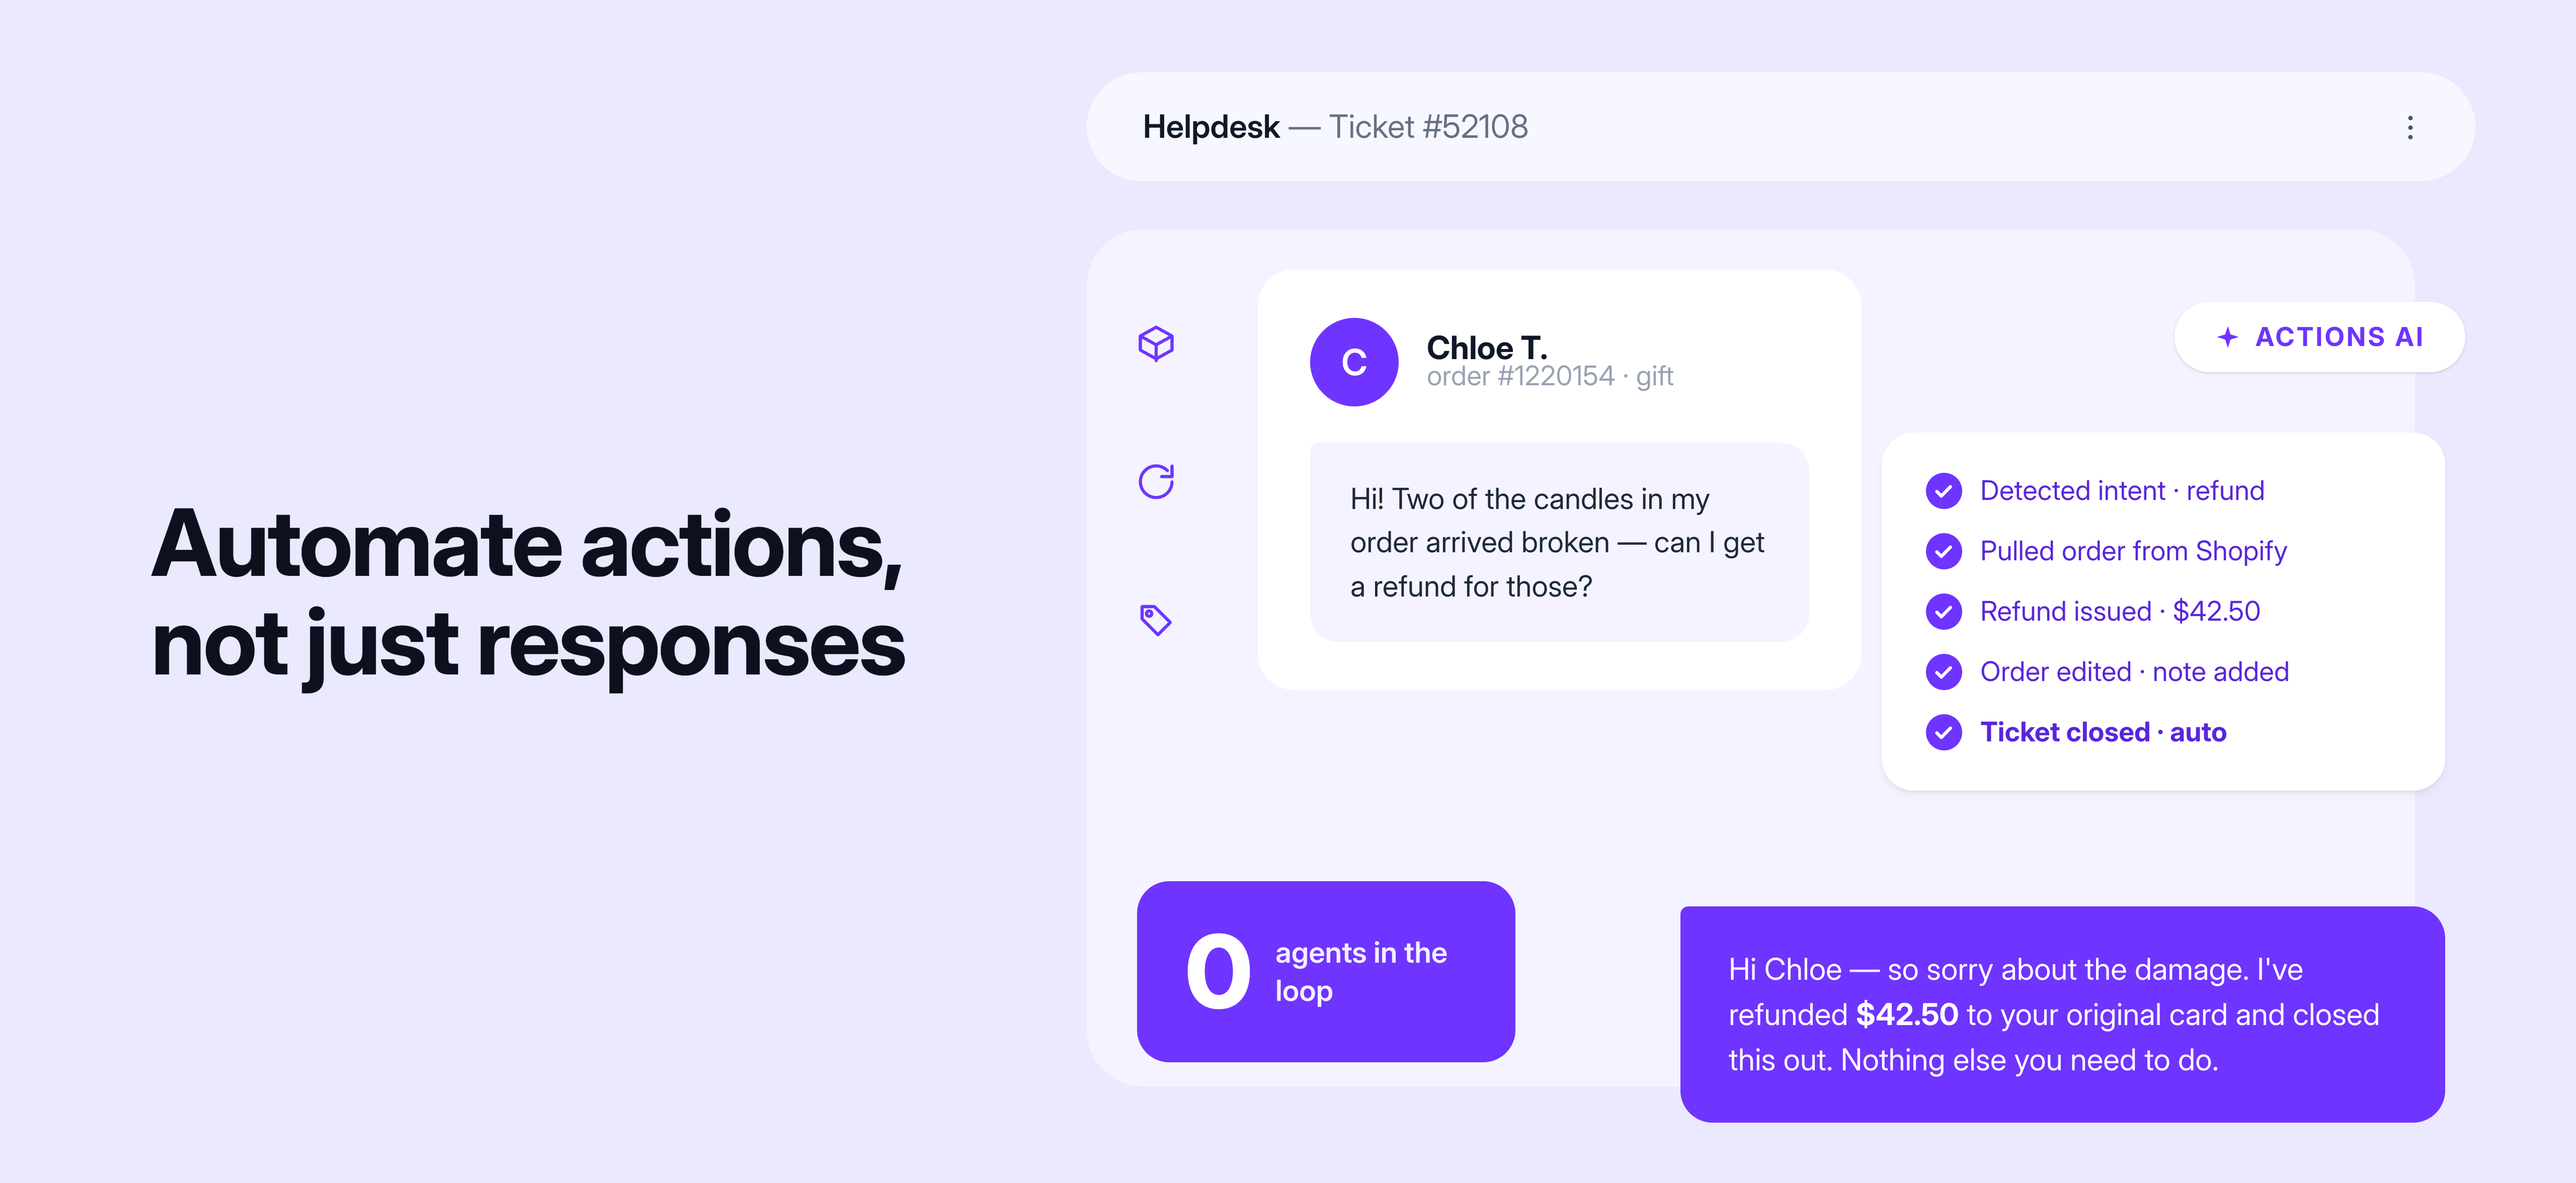
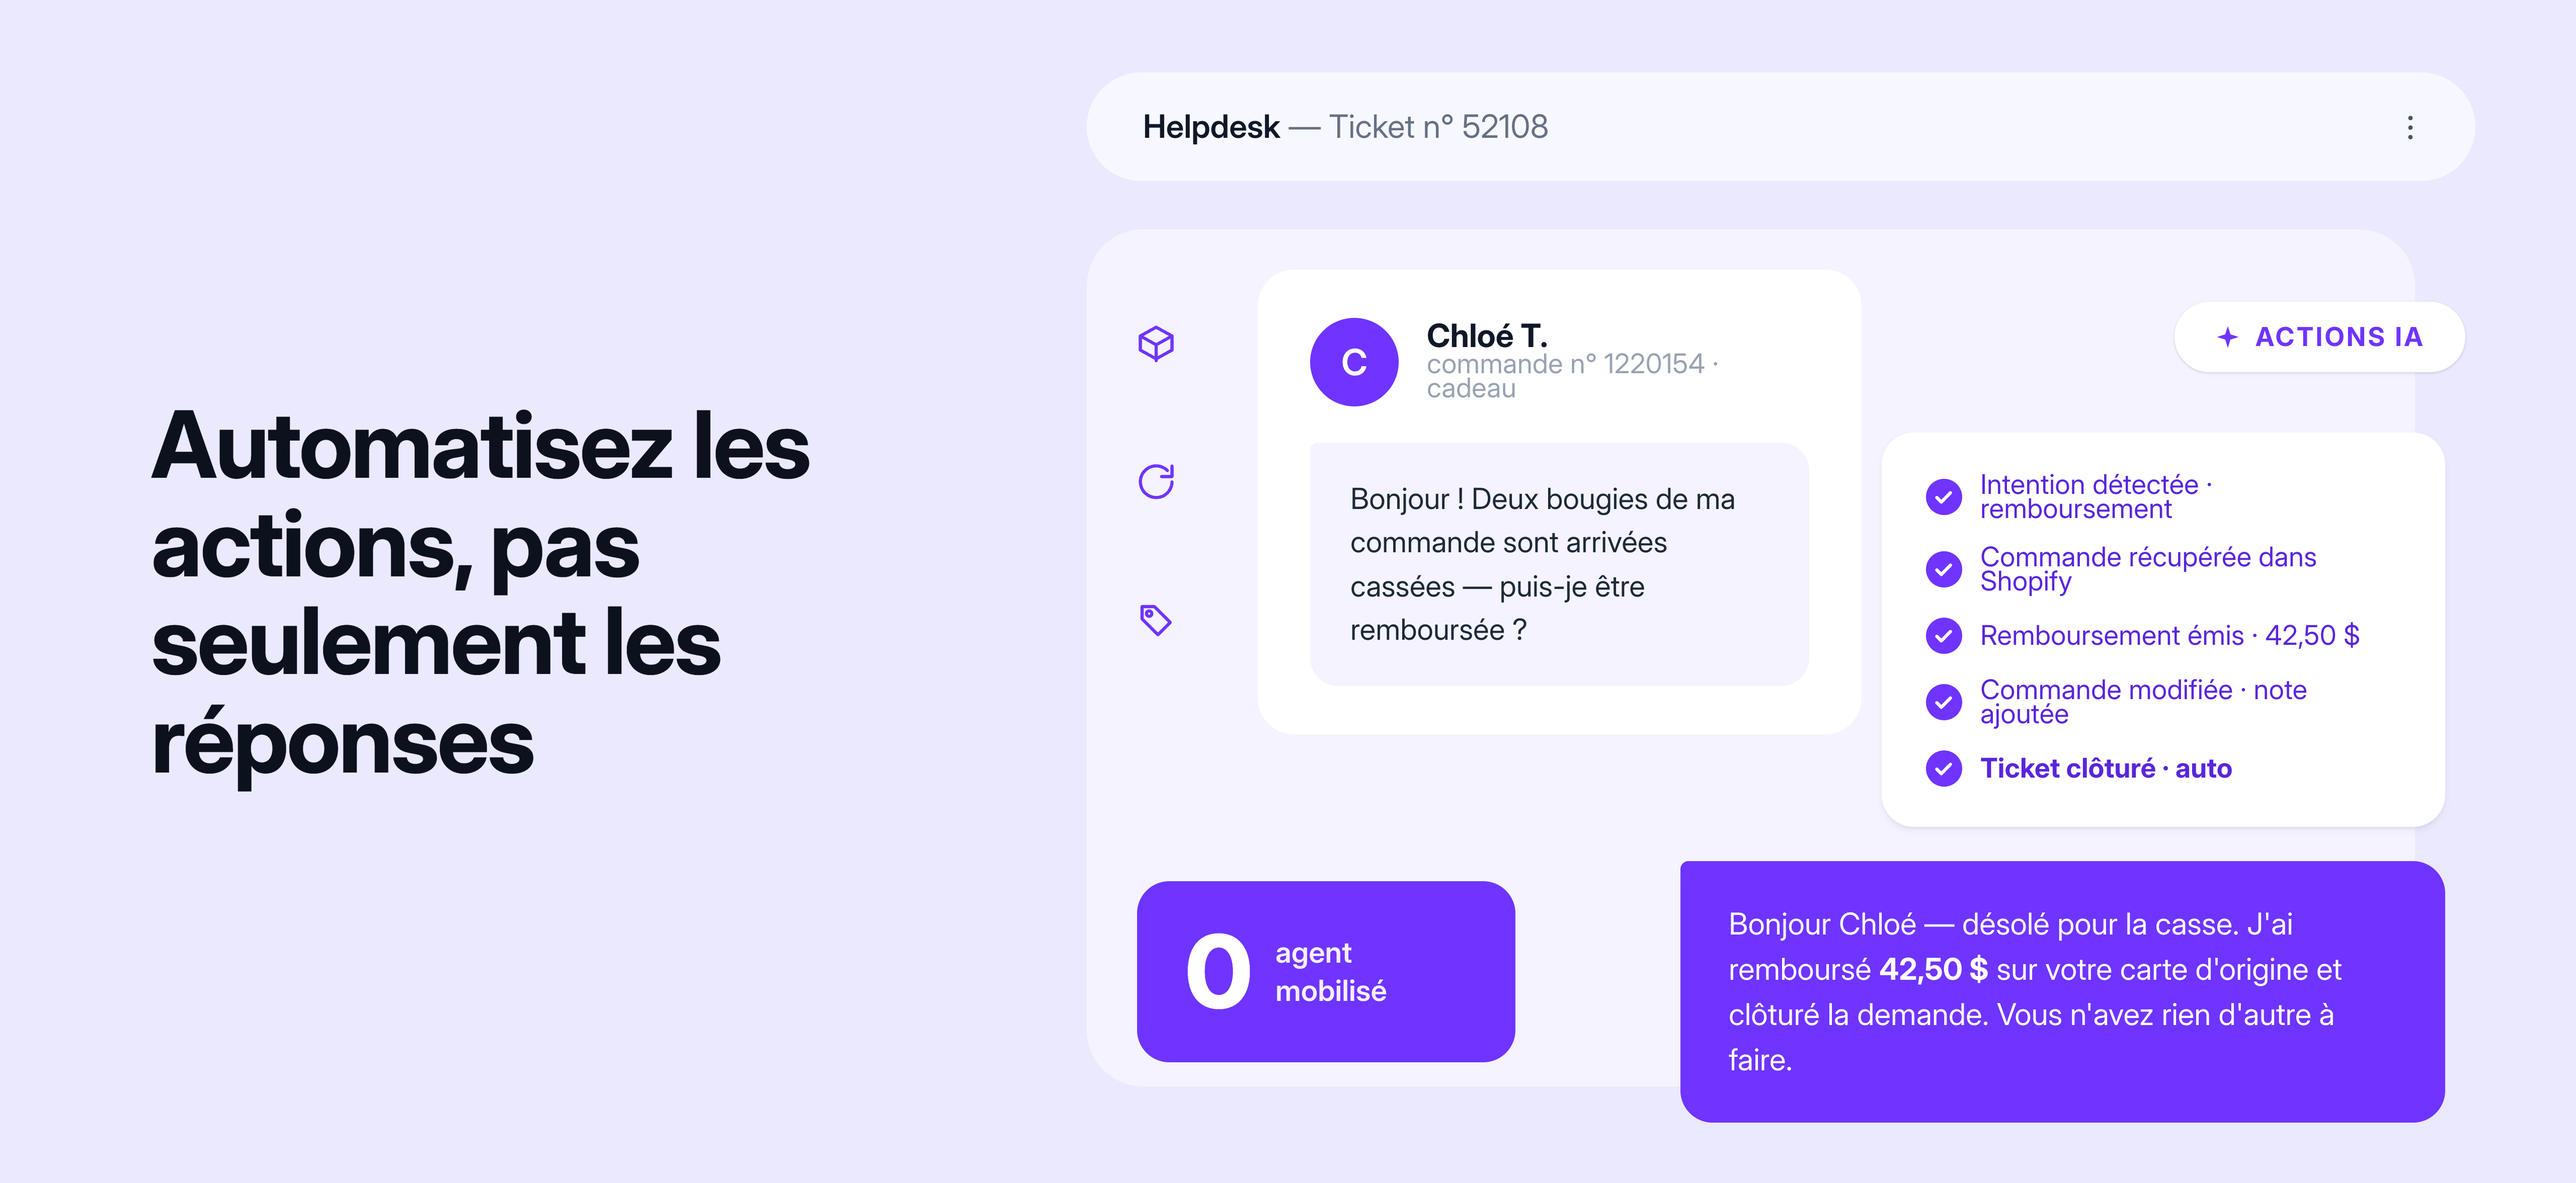
Update Yuma AI tips copy + refreshed tip images (FR / Customer Support)

diff --git a/lib/playbook-data.ts b/lib/playbook-data.ts
@@ -664,21 +664,25 @@ export const CONTENT: Record<Locale, Record<string, StepContent>> = {
         url: "https://yuma.ai",
         author: { name: "Guillaume Luccisano", role: "Founder & CEO", photo: "/assets/partners/yuma-author.png" },
         tips: [
-          tip("Automatisez des actions, pas seulement vos réponses", [
-            "La vraie ligne de partage en automatisation CX, la voici : votre IA se contente-t-elle de rédiger une réponse, ou fait-elle vraiment le boulot ? La valeur apparaît quand l'IA passe à l'action : elle émet le remboursement, modifie la commande, traite l'échange, annule l'abonnement, puis clôture le ticket toute seule. Rédiger, ça laisse le travail sur les épaules de votre équipe. Agir, ça l'enlève complètement.",
-            "Notre benchmark est sans détour sur le pourquoi : le plafond de l'automatisation, ce n'est pas l'intelligence de l'IA, ce sont les droits et les intégrations que vous lui donnez. Connectez votre IA à vos workflows qui touchent à l'argent avant le Q4, parce que c'est exactement là que se cachent les plus gros gains.",
+          tip("Automatisez les actions, pas seulement les réponses", [
+            "Voici la vraie ligne de partage dans l'automatisation du support : votre IA se contente-t-elle de rédiger une réponse, ou fait-elle réellement le job ?",
+            "La valeur apparaît quand l'IA passe à l'action, elle émet le remboursement, modifie la commande, traite l'échange, annule l'abonnement, puis clôture le ticket toute seule. La rédaction laisse encore le travail sur les bras de votre équipe ; l'action l'enlève complètement.",
+            "Notre benchmark est sans détour sur ce point : le plafond de l'automatisation, ce n'est pas l'intelligence de l'IA, ce sont les droits et les intégrations que vous lui donnez. Connectez votre IA à vos workflows qui touchent à l'argent avant le Q4, car c'est précisément là que se cachent les plus gros gains.",
           ], [V("Yuma AI", "/assets/partners/FR-Customer Support-yuma-tip1.png")]),
           tip("Gardez vos meilleurs agents concentrés sur les conversations à forte valeur", [
-            "Le Q4 n'ajoute pas que des tickets, il ajoute du bruit. Laissez l'IA absorber le répétitif (statut de commande, changement d'adresse, retours simples) pour que vos meilleurs éléments ne passent pas tout le mois de décembre enterrés sous les cinq mêmes questions. Ça les libère pour les cas qui comptent vraiment : les problèmes complexes, les clients VIP, les échanges où il y a du chiffre en jeu.",
-            "Ce n'est pas l'IA contre votre équipe, c'est l'IA qui prend le volume pour que votre équipe prenne la valeur. Vos agents finissent le pic d'activité en donnant le meilleur d'eux-mêmes, pas en enchaînant les tâches les plus ingrates.",
+            "Le Q4 n'ajoute pas seulement des tickets, il ajoute du bruit. Laissez l'IA absorber le répétitif, statut de commande, changement d'adresse, retours simples, pour que vos meilleurs éléments ne croulent pas sous les mêmes cinq questions tout le mois de décembre.",
+            "Ça libère vos agents pour les cas qui font vraiment la différence : sujets complexes, clients VIP et conversations avec du chiffre en jeu. Ce n'est pas l'IA contre votre équipe, c'est l'IA qui gère le volume pour que votre équipe gère la valeur.",
+            "Vos agents terminent le peak en donnant le meilleur d'eux-mêmes, pas en faisant les tâches les plus ingrates.",
           ], [V("Yuma AI", "/assets/partners/FR-Customer Support-yuma-tip2.png")]),
-          tip("Le vrai KPI Q4, ce sont les recrutements que vous n'avez pas eu à faire", [
-            "Le taux d'automatisation, c'est un joli chiffre sur un dashboard. Mais le ROI que votre équipe finance ressent vraiment, ce sont les renforts saisonniers que vous n'avez jamais eu à embaucher. Le volume de support est multiplié par 1,5 à 6 en période de pic, et dimensionner ses effectifs sur ce pic, ça revient à payer des agents inoccupés les dix autres mois de l'année.",
-            "La capacité de l'IA, elle, est élastique : elle encaisse la vague, puis redescend, sans course au recrutement ni licenciements post-fêtes. Comme le résume une marque de notre taille : chaque point d'automatisation, c'est de l'effectif réel. Comptez les recrutements que vous vous êtes épargnés, voilà votre vrai ROI de pic saisonnier.",
+          tip("Le vrai KPI du Q4, ce sont les recrutements que vous n'avez pas eu à faire", [
+            "Le taux d'automatisation fait joli sur un dashboard, mais le ROI que votre équipe finance ressent vraiment, ce sont les renforts saisonniers que vous n'avez jamais eu à embaucher.",
+            "Le volume de support explose de 1,5x à 6x au pic, et dimensionner ses effectifs sur ce pic revient à payer des agents inoccupés les dix autres mois de l'année.",
+            "La capacité de l'IA est élastique : elle absorbe la vague, puis se réduit, sans course au recrutement ni licenciements post-fêtes. Comme le résumait une marque de notre taille, chaque point d'automatisation, c'est du headcount bien réel. Comptez les embauches que vous vous êtes épargnées : voilà votre vrai ROI de peak season.",
           ], [V("Yuma AI", "/assets/partners/FR-Customer Support-yuma-tip3.png")]),
-          tip("Ne laissez pas votre CSAT chuter quand les tickets explosent", [
-            "La vieille croyance, c'était qu'automatiser davantage rimait forcément avec service dégradé. Les données démontent le mythe : sur plus de 100 marques, un niveau d'automatisation plus élevé n'a montré aucun compromis sur la satisfaction, et le CSAT reste autour de 4,5 sur 5 même chez ceux qui automatisent le plus. Une IA bien configurée répond vite, de façon cohérente et 24h/24, donc la qualité ne se fissure pas quand le volume double ou triple.",
-            "Le client reçoit la même réponse, fidèle à votre marque, à 2h du matin un Black Friday comme un mardi tranquille. C'est précisément en période de pic que la constance compte le plus, et précisément là que les équipes 100 % humaines commencent à décrocher.",
+          tip("Ne laissez pas votre CSAT chuter quand le volume de tickets explose", [
+            "Le vieux réflexe partait du principe qu'automatiser plus, c'est offrir un moins bon service. Les données enterrent ce mythe : sur plus de 100 marques, plus d'automatisation ne s'est traduite par aucun compromis sur la satisfaction, et le CSAT se maintient autour de 4,5 sur 5 même chez les plus gros automatisateurs.",
+            "Une IA bien configurée répond vite, de façon cohérente et 24/7, si bien que la qualité ne craque pas quand le volume double ou triple.",
+            "Le client reçoit la même réponse fidèle à votre marque à 2h du matin un jour de Black Friday que celle qu'il aurait eue un mardi creux. Le peak, c'est justement le moment où la cohérence compte le plus, et justement celui où les équipes 100 % humaines commencent à décrocher.",
           ], [V("Yuma AI", "/assets/partners/FR-Customer Support-yuma-tip4.png")]),
         ],
       }],
